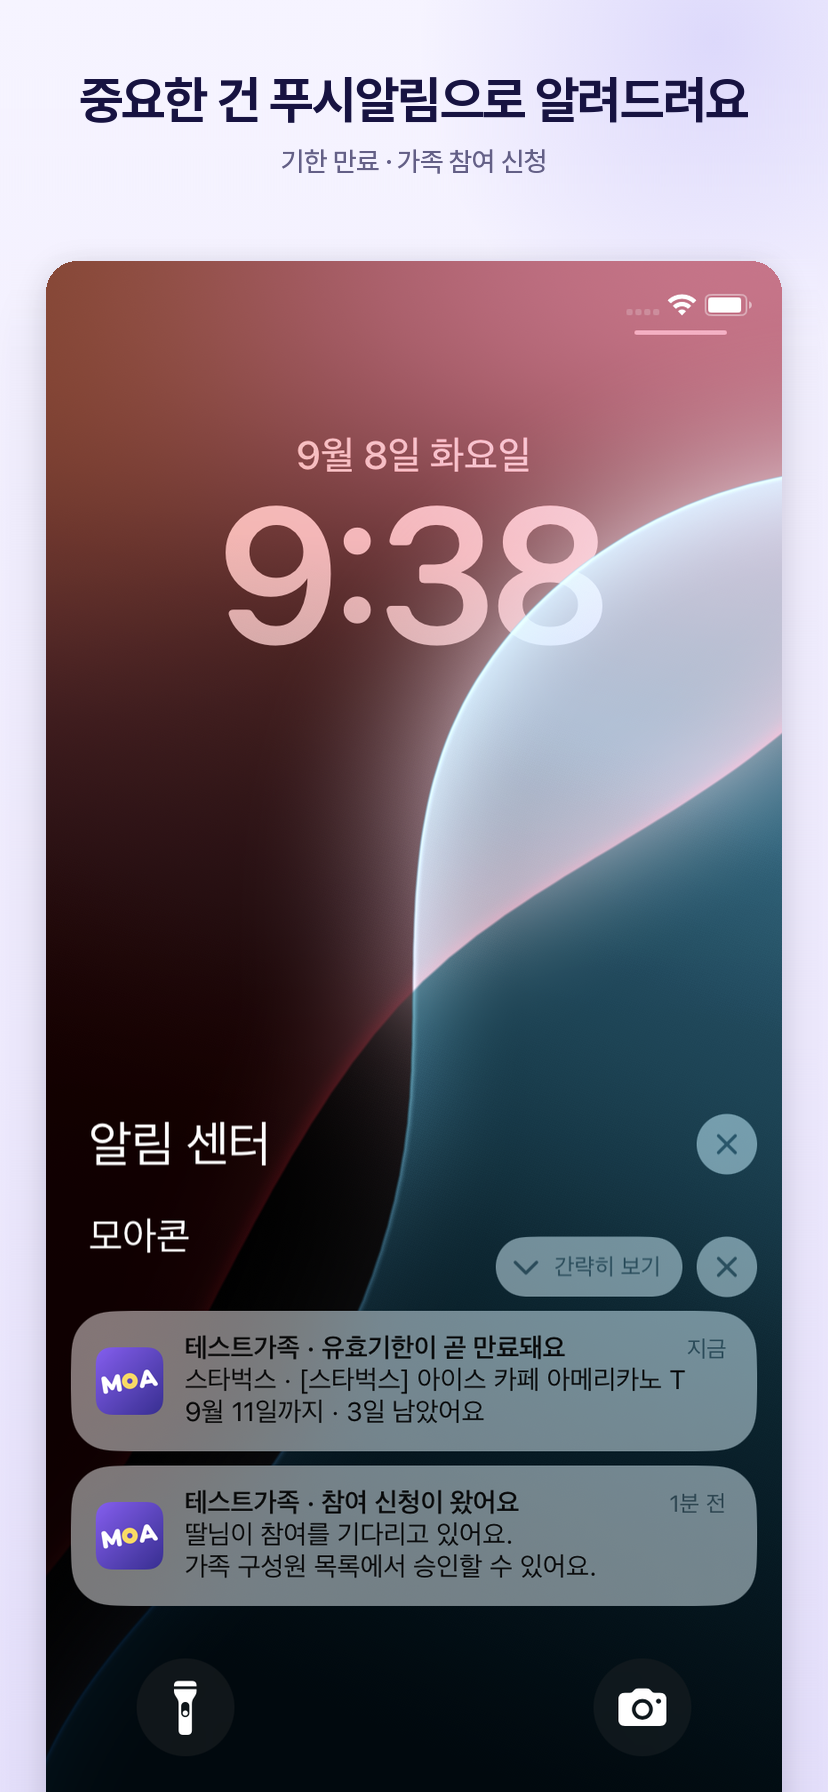
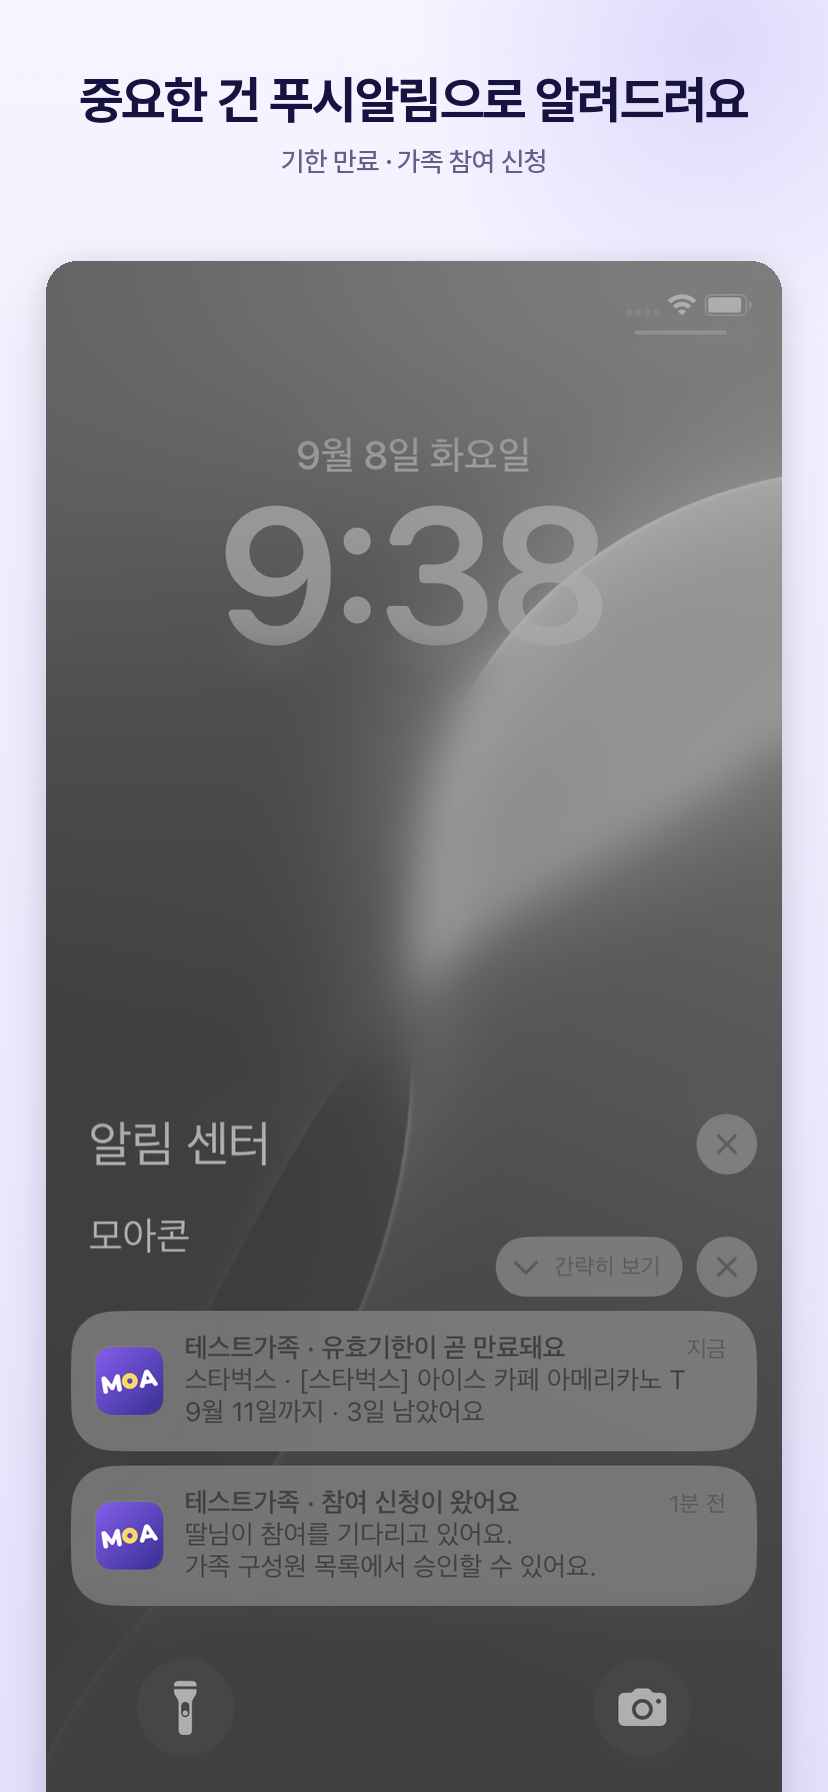
아이폰 푸시 사진의 배경을 눌러 조용하게 만든다
아이폰 기본 배경화면이 분홍·청록에 흰 덩어리까지 있어서 시선을 다 가져갔다. 알림 두
개를 보여주는 장인데 알림이 안 보였다. 갤럭시 것은 흐린 회색이라 알림만 보인다 -
여덟 장을 나란히 놓으면 이 한 장만 튀었다.

색을 빼고, 명암을 가운데로 좁히고, 글자와 알림 카드가 있는 띠만 빼고 흐린다.

MOA 아이콘만 제 색으로 되돌린다. 안 되돌리면 아이콘까지 회색이 되는데, 알림에서 눈이
먼저 가는 자리가 거기다. 무슨 앱이 보낸 알림인지 한눈에 안 들어오면 이 장은 할 일을
못 한다.

띠 자리는 828×1792 한 장을 보고 잰 값이라 다시 찍으면 다시 재야 한다. 찍어온 원본은
05-push.shot.png로 남겨둔다.

Claude-Session: https://claude.ai/code/session_0162SJJHihdyv8vNrHmvGXqM

diff --git a/scripts/calm-lockscreen.py b/scripts/calm-lockscreen.py
@@ -1,0 +1,79 @@
+#!/usr/bin/env python3
+"""잠금화면 사진의 배경만 눌러 조용하게 만든다.
+
+    python3 scripts/calm-lockscreen.py <찍어온 사진> <내보낼 곳>
+
+── 왜 ──────────────────────────────────────────────────────────────────────
+
+푸시 스크린샷은 알림 두 개를 보여주는 장인데, 아이폰 기본 배경화면이 분홍·청록에 흰
+덩어리까지 있어서 시선을 다 가져갔다. 갤럭시는 흐린 회색 배경이라 알림만 보였다.
+여덟 장을 나란히 놓으면 이 한 장만 튄다.
+
+배경화면을 바꿔 끼고 다시 찍는 것이 제일 깔끔하지만, 알림이 뜬 순간을 다시 만들어야
+해서 쉽지 않다. 그래서 찍어둔 사진에서 배경만 누른다.
+
+── 무엇을 하나 ─────────────────────────────────────────────────────────────
+
+1. 색을 뺀다. 분홍과 청록이 없어지는 것만으로 절반은 조용해진다.
+2. 명암을 가운데로 좁힌다. 흰 덩어리와 검은 구석이 같이 눌린다.
+3. 글자와 알림 카드가 있는 띠만 빼고 흐린다. 읽혀야 하는 자리는 그대로 둔다.
+4. MOA 아이콘만 제 색으로 되돌린다.
+
+4번이 없으면 아이콘까지 회색이 되는데, 알림에서 눈이 먼저 가는 자리가 거기다.
+무슨 앱이 보낸 알림인지 한눈에 안 들어오면 이 장은 할 일을 못 한다.
+
+── 띠 자리는 사진마다 다시 재야 한다 ───────────────────────────────────────
+
+아래 KEEP과 ICONS는 828×1792 한 장을 보고 잰 값이다. 다른 폰이나 다른 알림 개수로
+다시 찍으면 자리가 달라진다. 눌러놓고 글자가 흐려졌으면 그 띠를 다시 잰다.
+"""
+
+import sys
+
+from PIL import Image, ImageDraw, ImageFilter
+
+# 흐리지 않고 남길 가로 띠 (y 시작, y 끝)
+KEEP = [(0, 95), (175, 445), (935, 1530), (1545, 1700), (1725, 1792)]
+
+# 제 색으로 되돌릴 앱 아이콘 (왼, 위, 오른, 아래)
+ICONS = [(54, 1220, 132, 1298), (54, 1394, 132, 1472)]
+
+GREY_KEEP = 0.45  # 명암을 얼마나 남길지. 낮을수록 납작해진다
+GREY_MID = 118  # 눌러서 모을 회색. 알림 카드가 이 위로 떠야 읽힌다
+BLUR = 22
+
+
+def calm(src):
+    w, h = src.size
+
+    lut = [max(0, min(255, round(GREY_MID + (v - 128) * GREY_KEEP))) for v in range(256)]
+    base = src.convert("L").convert("RGB").point(lut * 3)
+
+    mask = Image.new("L", (w, h), 255)
+    draw = ImageDraw.Draw(mask)
+    for y0, y1 in KEEP:
+        draw.rectangle([0, y0, w, y1], fill=0)
+    mask = mask.filter(ImageFilter.GaussianBlur(26))
+
+    out = Image.composite(base.filter(ImageFilter.GaussianBlur(BLUR)), base, mask)
+
+    for box in ICONS:
+        bw, bh = box[2] - box[0], box[3] - box[1]
+        m = Image.new("L", (bw, bh), 0)
+        ImageDraw.Draw(m).rounded_rectangle([0, 0, bw - 1, bh - 1], radius=round(bw * 0.24), fill=255)
+        out.paste(src.crop(box), (box[0], box[1]), m.filter(ImageFilter.GaussianBlur(1.2)))
+
+    return out
+
+
+def main():
+    if len(sys.argv) != 3:
+        print(__doc__.strip().splitlines()[2].strip())
+        return 1
+    calm(Image.open(sys.argv[1]).convert("RGB")).save(sys.argv[2])
+    print("만들었습니다:", sys.argv[2])
+    return 0
+
+
+if __name__ == "__main__":
+    raise SystemExit(main())
